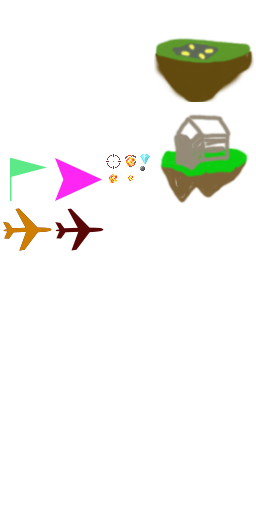
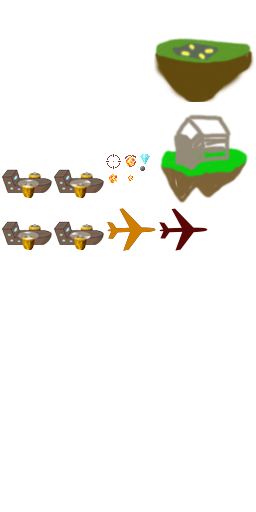
Updated ship animation

Changed region(s): [[0.0, 0.3125, 0.5938, 0.5], [0.625, 0.4062, 0.8125, 0.5]]

diff --git a/app/assets/stylesheets/art.scss b/app/assets/stylesheets/art.scss
@@ -108,7 +108,7 @@
 }
 
 @function sprite_position_pirate_fly_0000(){
-  @return -54px -206px;
+  @return -2px -258px;
 }
 @mixin sprite_pirate_fly_0000($width: 50px, $height: 50px) {
   width: $width;
@@ -121,7 +121,7 @@
 }
 
 @function sprite_position_pirate_standby_0000(){
-  @return -2px -206px;
+  @return -158px -206px;
 }
 @mixin sprite_pirate_standby_0000($width: 50px, $height: 50px) {
   width: $width;
@@ -133,29 +133,68 @@
   }
 }
 
-@function sprite_position_ship_fly_0000(){
-  @return -54px -154px;
+@function sprite_position_pirate_standby_0001(){
+  @return -106px -206px;
 }
-@mixin sprite_ship_fly_0000($width: 50px, $height: 50px) {
+@mixin sprite_pirate_standby_0001($width: 50px, $height: 50px) {
   width: $width;
   height: $height;
   background: {
     repeat: no-repeat;
     image: sprite_image_url();
-    position: sprite_position_ship_fly_0000();
+    position: sprite_position_pirate_standby_0001();
   }
 }
 
-@function sprite_position_ship_standby_0000(){
-  @return -2px -154px;
+@function sprite_position_ship_0000(){
+  @return -54px -206px;
 }
-@mixin sprite_ship_standby_0000($width: 50px, $height: 50px) {
+@mixin sprite_ship_0000($width: 50px, $height: 50px) {
   width: $width;
   height: $height;
   background: {
     repeat: no-repeat;
     image: sprite_image_url();
-    position: sprite_position_ship_standby_0000();
+    position: sprite_position_ship_0000();
+  }
+}
+
+@function sprite_position_ship_0001(){
+  @return -2px -206px;
+}
+@mixin sprite_ship_0001($width: 50px, $height: 50px) {
+  width: $width;
+  height: $height;
+  background: {
+    repeat: no-repeat;
+    image: sprite_image_url();
+    position: sprite_position_ship_0001();
+  }
+}
+
+@function sprite_position_ship_0002(){
+  @return -54px -154px;
+}
+@mixin sprite_ship_0002($width: 50px, $height: 50px) {
+  width: $width;
+  height: $height;
+  background: {
+    repeat: no-repeat;
+    image: sprite_image_url();
+    position: sprite_position_ship_0002();
+  }
+}
+
+@function sprite_position_ship_0003(){
+  @return -2px -154px;
+}
+@mixin sprite_ship_0003($width: 50px, $height: 50px) {
+  width: $width;
+  height: $height;
+  background: {
+    repeat: no-repeat;
+    image: sprite_image_url();
+    position: sprite_position_ship_0003();
   }
 }
 

diff --git a/app/assets/javascripts/art.js b/app/assets/javascripts/art.js
@@ -116,7 +116,7 @@ var artSprite = {
 
   "pirate_fly_0000.png":
   {
-    "frame": {"x":54,"y":206,"w":50,"h":50},
+    "frame": {"x":2,"y":258,"w":50,"h":50},
     "rotated": false,
     "trimmed": false,
     "spriteSourceSize": {
@@ -130,6 +130,48 @@ var artSprite = {
 
   "pirate_standby_0000.png":
   {
+    "frame": {"x":158,"y":206,"w":50,"h":50},
+    "rotated": false,
+    "trimmed": false,
+    "spriteSourceSize": {
+      "x":0,
+      "y":0,
+      "w":50,
+      "h":50
+    },
+    "sourceSize": {"w":50,"h":50}
+  }, 
+
+  "pirate_standby_0001.png":
+  {
+    "frame": {"x":106,"y":206,"w":50,"h":50},
+    "rotated": false,
+    "trimmed": false,
+    "spriteSourceSize": {
+      "x":0,
+      "y":0,
+      "w":50,
+      "h":50
+    },
+    "sourceSize": {"w":50,"h":50}
+  }, 
+
+  "ship_0000.png":
+  {
+    "frame": {"x":54,"y":206,"w":50,"h":50},
+    "rotated": false,
+    "trimmed": false,
+    "spriteSourceSize": {
+      "x":0,
+      "y":0,
+      "w":50,
+      "h":50
+    },
+    "sourceSize": {"w":50,"h":50}
+  }, 
+
+  "ship_0001.png":
+  {
     "frame": {"x":2,"y":206,"w":50,"h":50},
     "rotated": false,
     "trimmed": false,
@@ -142,7 +184,7 @@ var artSprite = {
     "sourceSize": {"w":50,"h":50}
   }, 
 
-  "ship_fly_0000.png":
+  "ship_0002.png":
   {
     "frame": {"x":54,"y":154,"w":50,"h":50},
     "rotated": false,
@@ -156,7 +198,7 @@ var artSprite = {
     "sourceSize": {"w":50,"h":50}
   }, 
 
-  "ship_standby_0000.png":
+  "ship_0003.png":
   {
     "frame": {"x":2,"y":154,"w":50,"h":50},
     "rotated": false,
